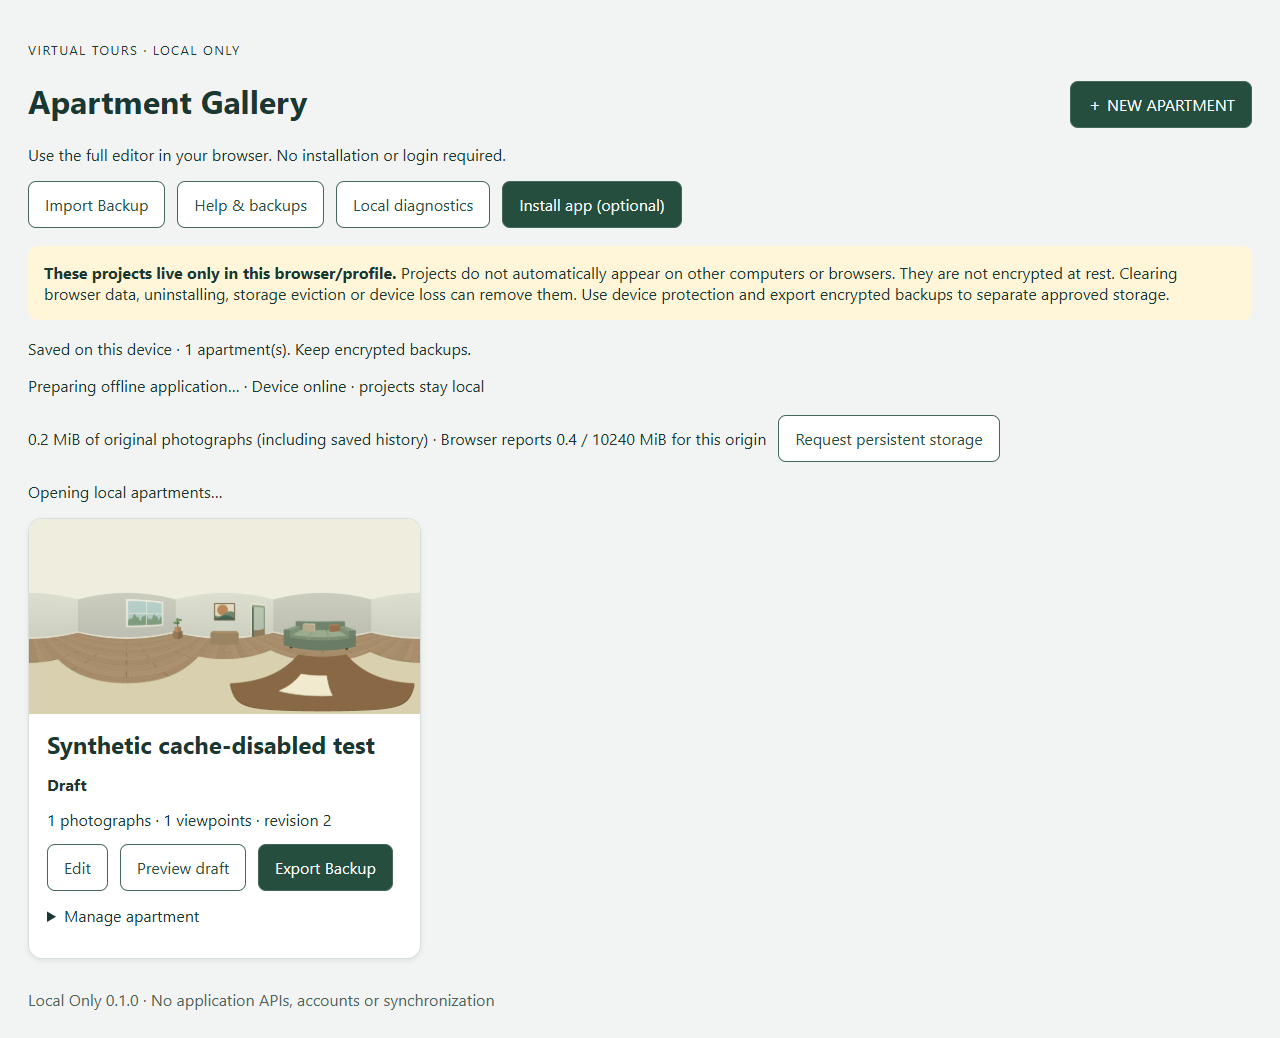
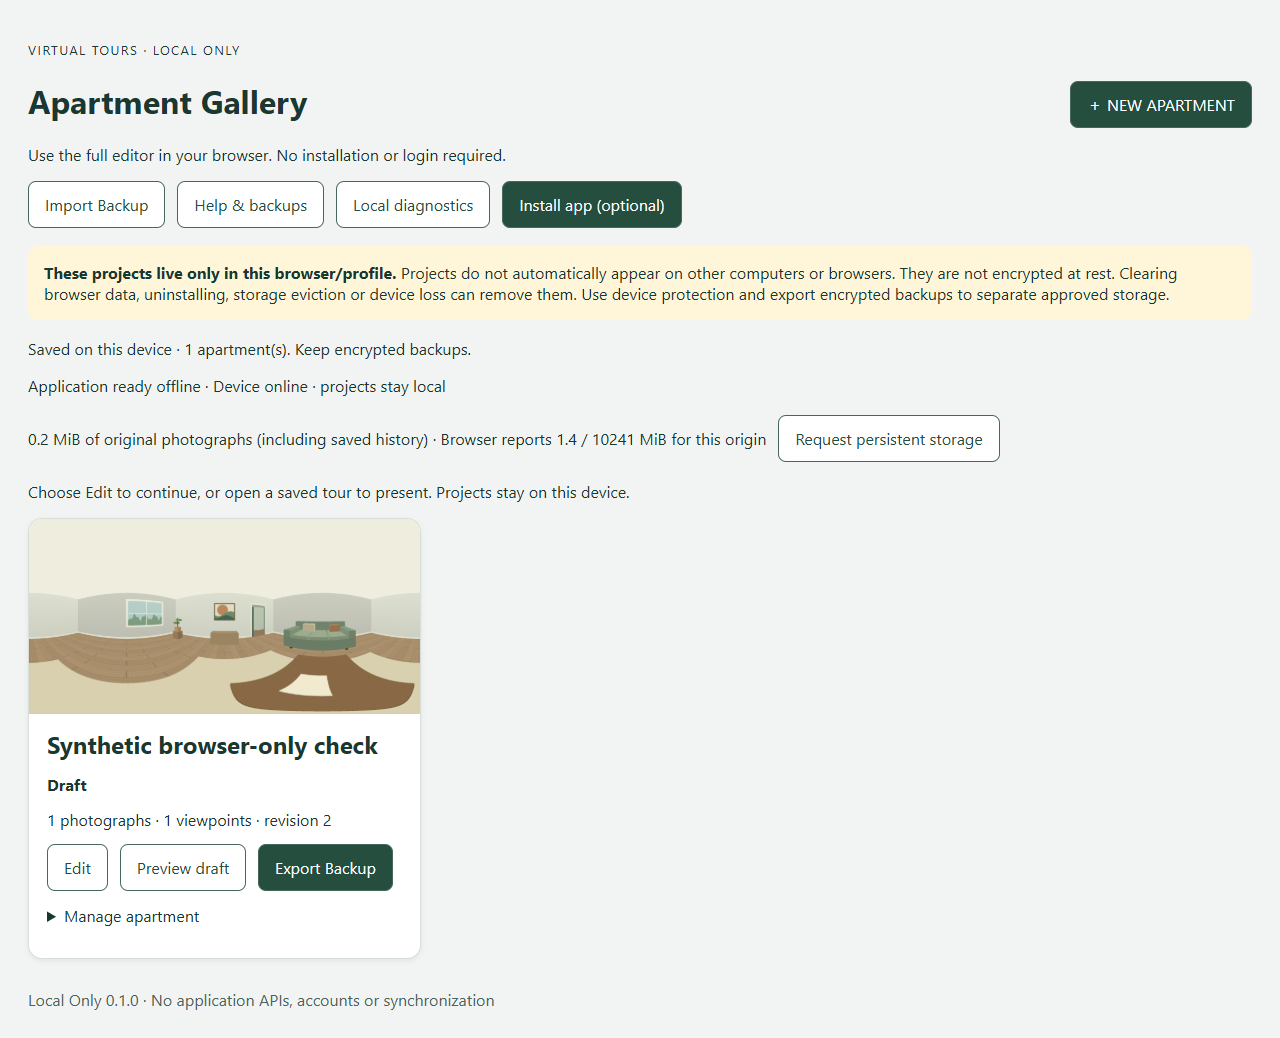
Finish Gallery loading feedback and serialize static-build acceptance

Changed region(s): [[0.0312, 0.4624, 0.5, 0.4933], [0.0312, 0.3699, 0.375, 0.4008], [0.125, 0.7091, 0.3125, 0.7399]]

diff --git a/local/gallery.js b/local/gallery.js
@@ -196,6 +196,7 @@ async function renderGallery() {
   }
   if (!apartments.length)
     say("No local apartments yet. Choose NEW APARTMENT or Import Backup.");
+  if(apartments.length&&$("message").textContent==="Opening local apartments…")say("Choose Edit to continue, or open a saved tour to present. Projects stay on this device.");
   await info();
 }
 $("new-apartment").onclick = () =>

diff --git a/LOGBOOK.md b/LOGBOOK.md
@@ -1,5 +1,9 @@
 # Development log
 
+- 2026-11-17. Browser-first final verification: both initial PR #48 Actions runs pass the full 99-test suite, installed-PWA regression, no-install browser workflow and isolated Migration Center compatibility. The Gallery status correction passes a targeted live JPEG-save/reopen/offline-ready check; all 45 deployed assets still match the prepared source, zero storage bindings, and the original online deployment is unchanged. Ready-to-review PR is the authorized GitHub handoff; no production redeploy or paid service. Physical Android/iPad/airplane-mode retention remain the only platform acceptance gaps noted in LOCAL-BROWSER.md.
+
+- 2026-11-17. PR #48 opened at `f957544`; both regression jobs pass 99 tests. Final screenshot review found Gallery’s initial “Opening local apartments…” message persisting after a non-empty reload; replace only that loading message with actionable Gallery guidance while retaining operation feedback. Consolidated hosting/build tests in one process to avoid concurrent writers racing over generated assets during Node’s parallel test-file execution. No storage format, tour logic, production or permission changes. Reverify and redeploy only the isolated static site before final CI handoff.
+
 - 2026-11-17. Final browser-first deployment verified against all 45 current shell bytes after friendly website-oriented cache-error copy. No-install online create/JPEG import/save/reload also passes with service workers explicitly blocked; offline readiness is not falsely shown and backend/image paths are 404. Cloud verification still reports zero bindings and unchanged original production deployment; all deployment configuration/receipts and test projects remain private. Added synthetic Gallery/upload/doorway/offline screenshots, LOCAL-BROWSER.md, updated Local Only handoff and no-install CI path. Full regressions pass 99/99. Prepare the feature PR and run Actions; leave production untouched.
 
 - 2026-11-17. Browser-first Local Only is live on its own assets-only workers.dev origin, with no script/backend/storage bindings or Logpush. Dashboard confirms Workers Free ($0/current plan); existing OAuth was sufficient without broader scopes. Fixed exact-path root/editor routing with explicit static 200 rewrites, keeping non-app/API paths 404 and page CSP separate from same-origin shell-worker fetch policy. Chromium, installed Chrome, Edge and Windows WebKit each passed 20 live no-install gates, including complete process restart and offline editing/viewing/backup recovery; zero external/mutating HTTP calls or page errors. All 45 hosted shell assets match staged bytes; production deployment metadata remains byte-identical. Added no-install CI coverage, isolated staging/config tests and clear browser/device/Safari/data-loss guidance. 99 regressions pass. No original online/resource/guest/account changes, real photo deployment or paid service. Physical Fold/iPad/airplane-mode/long-term retention remain unverified; WebKit/viewport tests are explicitly separate. Final source-error-copy parity, PR and CI follow.
